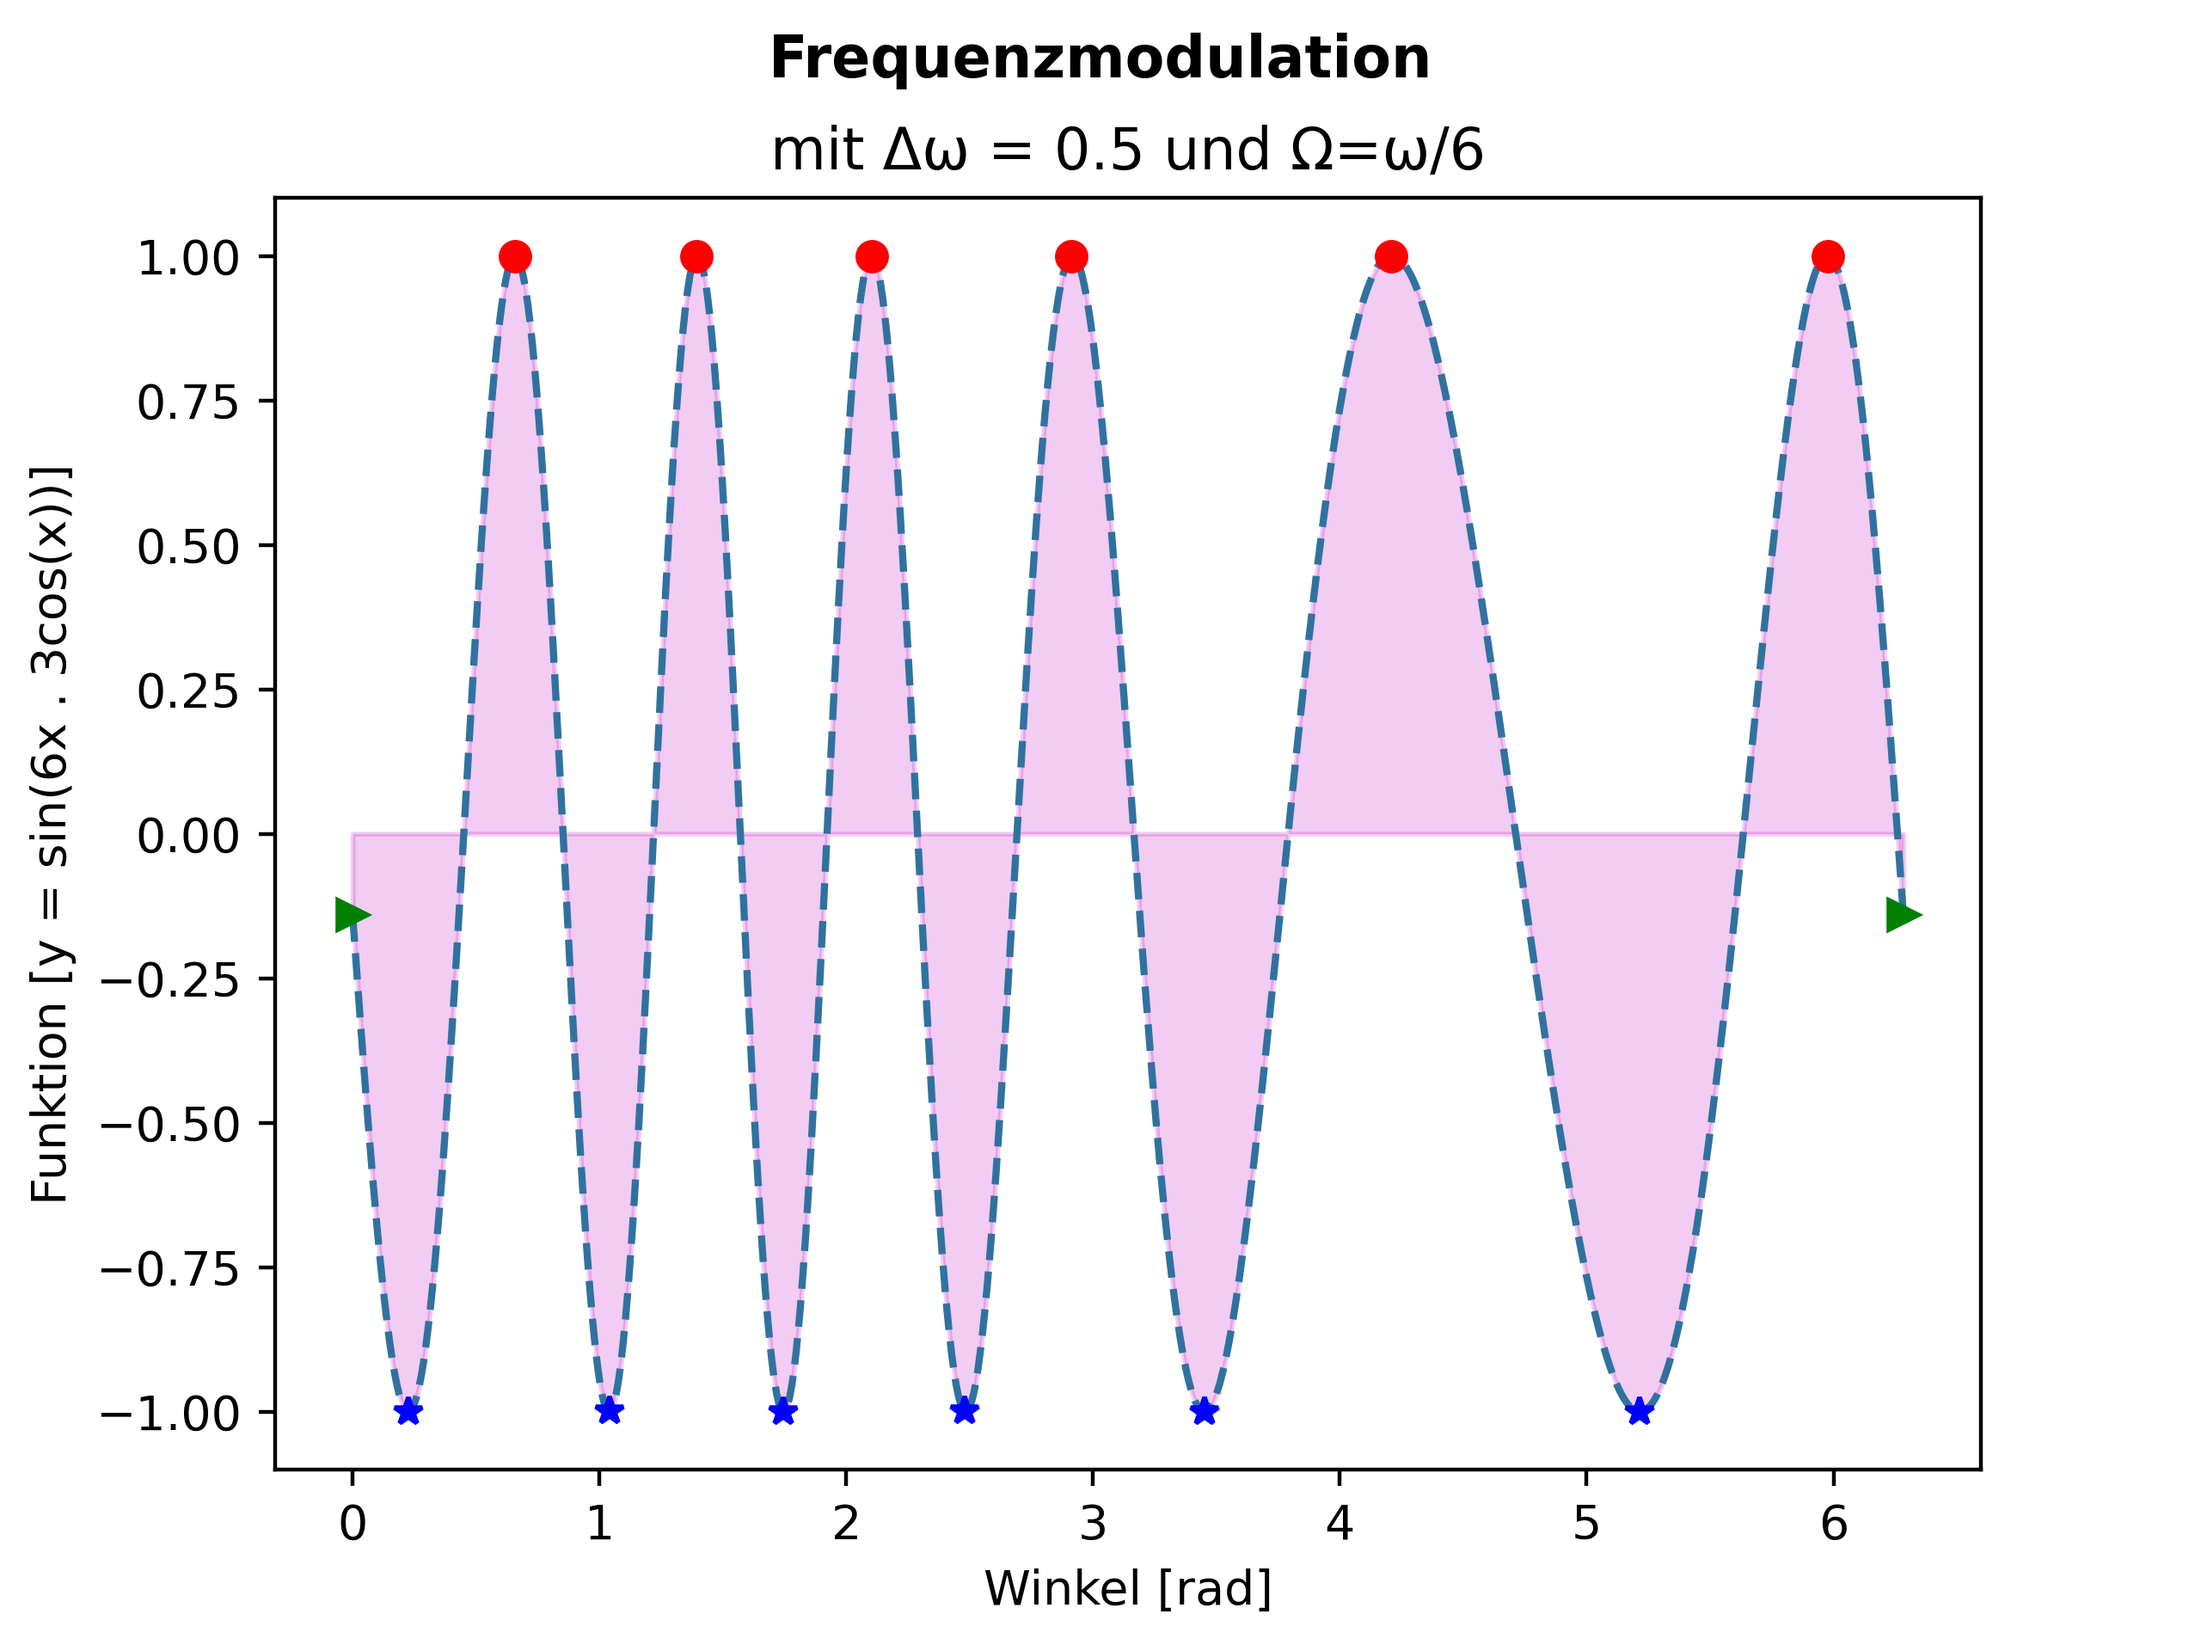
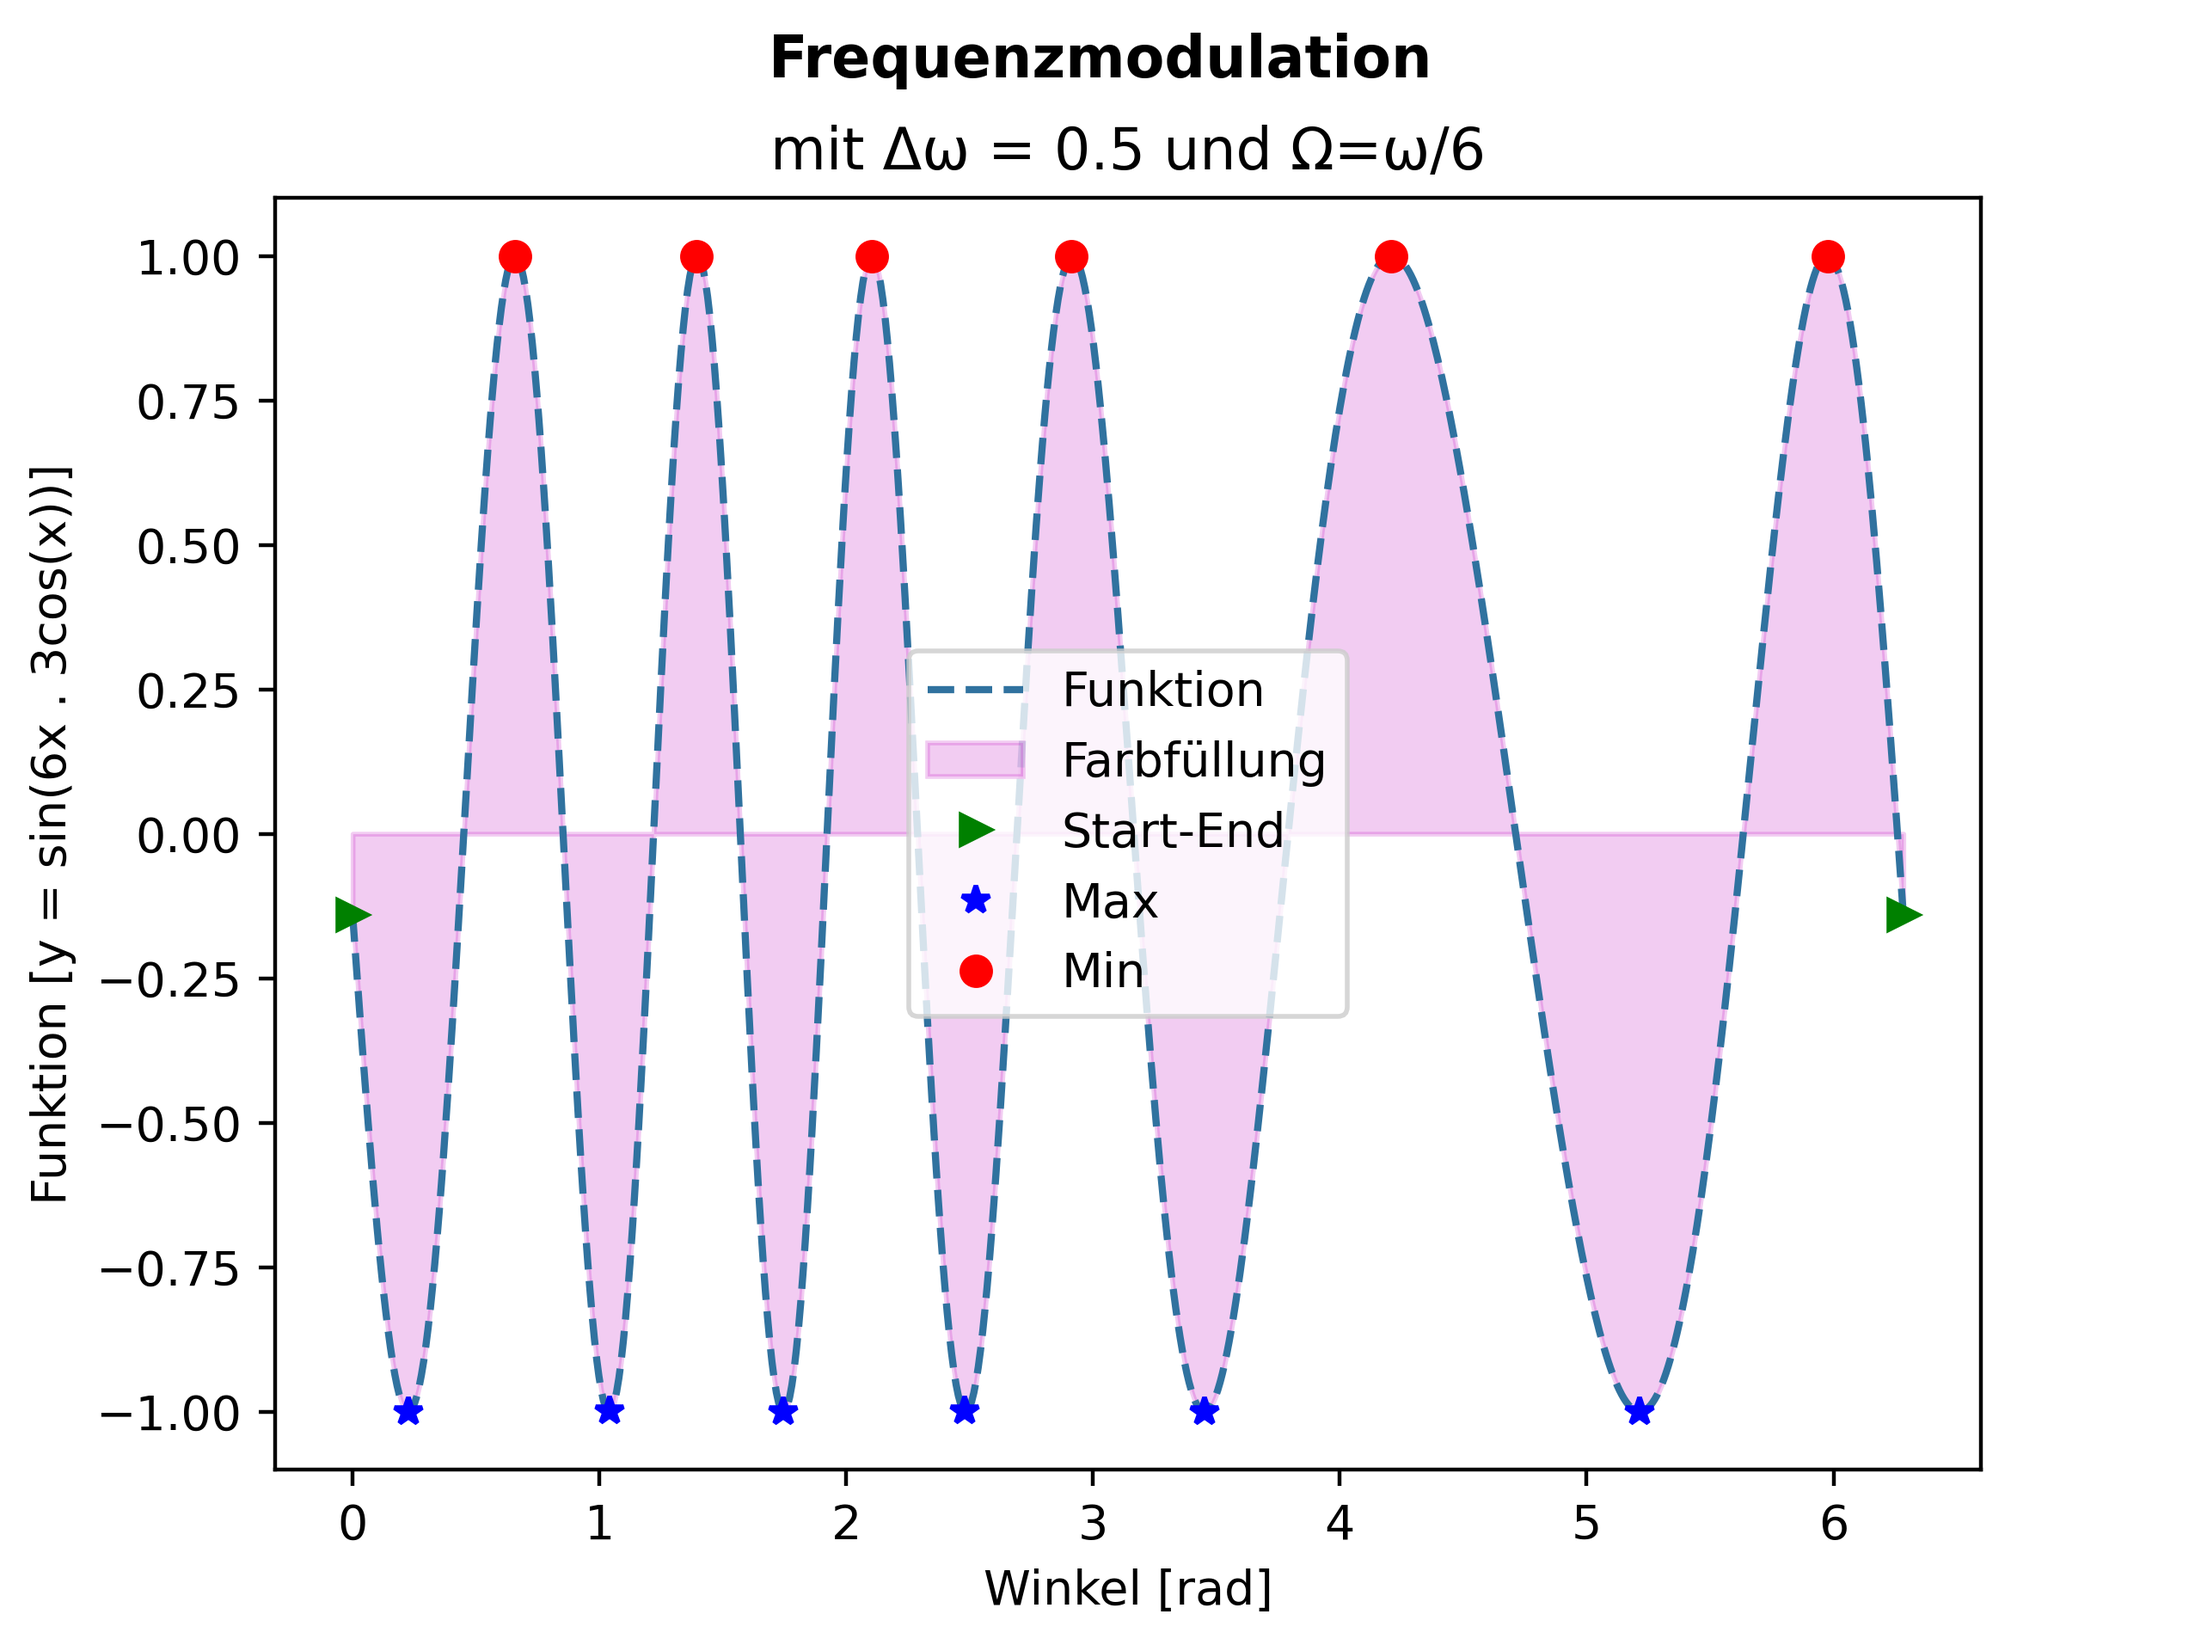
add missing legends for plot_a and plot_b

Changed region(s): [[0.4062, 0.375, 0.625, 0.625]]

diff --git a/Informatik 1/UE07/datenvisualisierung.py b/Informatik 1/UE07/datenvisualisierung.py
@@ -52,10 +52,11 @@ def xy_from_id(id):
 # Es sollen einige Marker für bestimmte Messpunkte gezeichnet werden.
 # Diese Funktion bekommt die Liste der IDs und die Art der Darstellung,
 # und zeichnet entsprechend viele Marker in den aktuellen Plot.
-def plot_ids(ids, marker):
+def plot_ids(ids, marker, label):
     for id in ids:
         x, y = xy_from_id(id)
-        plt.plot(x, y, marker)
+        plt.plot(x, y, marker, label=label)
+        label = None  # Das Label nur 1x setzen!
 
 
 """
@@ -70,19 +71,20 @@ ys = data[:, 2]
 
 # xy-Kurve als gestrichelte Linie (Farbe aus Vorgabe entnommen).
 # Fläche unter der Funktion in semi-transparentem Magenta.
-plt.plot(xs, ys, "--", color="#30729f")
-plt.fill_between(xs, ys, 0, color="m", alpha=0.2)
+plt.plot(xs, ys, "--", color="#30729f", label="Funktion")
+plt.fill_between(xs, ys, 0, color="m", alpha=0.2, label="Farbfüllung")
 
 # Spezielle IDs laut Vorgabe mit verschiedenen Marker-Symbolen.
-plot_ids([345, 219], "g>")
-plot_ids([198, 166, 315, 280, 90, 388], "b*")
-plot_ids([48, 573, 653, 243, 387, 409], "ro")
+plot_ids([345, 219], marker="g>", label="Start-End")
+plot_ids([198, 166, 315, 280, 90, 388], marker="b*", label="Max")
+plot_ids([48, 573, 653, 243, 387, 409], marker="ro", label="Min")
 
-# Achsenbeschriftung und Titel
+# Achsenbeschriftung, Titel und Legende
 plt.suptitle("Frequenzmodulation", fontweight="bold")
 plt.title("mit Δω = 0.5 und Ω=ω/6")
 plt.xlabel("Winkel [rad]")
 plt.ylabel("Funktion [y = sin(6x . 3cos(x))]")
+plt.legend(loc="center")
 
 # Plot speichern und schließen, damit der nächste Plot begonnen werden kann.
 plt.savefig("plot_a.png", dpi=400)
@@ -100,14 +102,15 @@ ys = data_with_noise[:, 2]
 
 # xy-Kurve als gestrichelte Linie (Farbe aus Vorgabe entnommen).
 # Fläche unter der Funktion in semi-transparentem Magenta.
-plt.plot(xs, ys, "--", color="#30729f")
-plt.fill_between(xs, ys, 0, color="m", alpha=0.2)
+plt.plot(xs, ys, "--", color="#30729f", label="Funktion")
+plt.fill_between(xs, ys, 0, color="m", alpha=0.2, label="Farbfüllung")
 
-# Achsenbeschriftung und Titel
+# Achsenbeschriftung, Titel und Legende
 plt.suptitle("Frequenzmodulation", fontweight="bold")
 plt.title("mit Δω = 0.5 und Ω=ω/6 + Rauschen")
 plt.xlabel("Winkel [rad]")
 plt.ylabel("Funktion [y = sin(6x . 3cos(x))]")
+plt.legend(loc="center")
 
 # Plot speichern und schließen, damit der nächste Plot begonnen werden kann.
 plt.savefig("plot_b.png", dpi=400)
@@ -130,11 +133,11 @@ ys = data_with_noise[:, 2] - data[:, 2]
 # Neu hier ist das Label der Kurve, das anschließend als Legende angezeigt wird.
 plt.plot(xs, ys, "-", color="#30729f", label="Rauschen")
 
-# Achsenbeschriftung, Titel und Legende.
+# Achsenbeschriftung, Titel und Legende
 plt.suptitle("Rauschen aus Differenzbildung", fontweight="bold")
 plt.xlabel("Winkel [rad]")
 plt.ylabel("Differenz")
-plt.legend()
+plt.legend(loc="upper right")
 
 # Plot speichern und schließen, der Konsistenz wegen.
 plt.savefig("plot_c.png", dpi=400)
